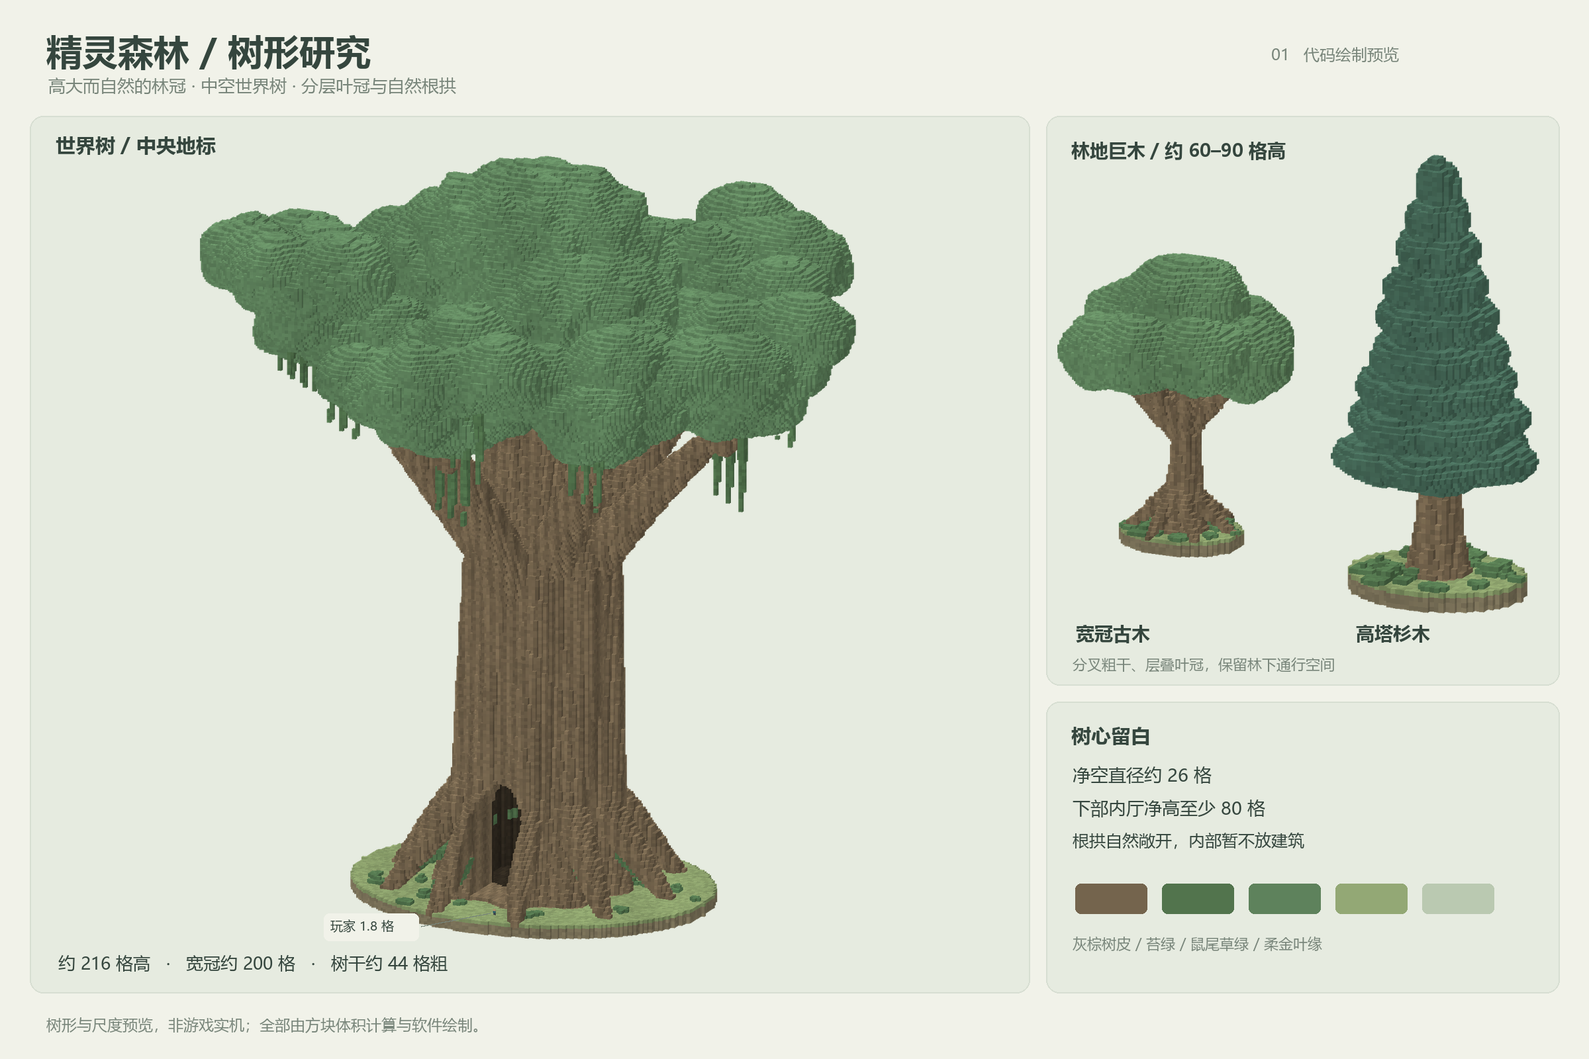
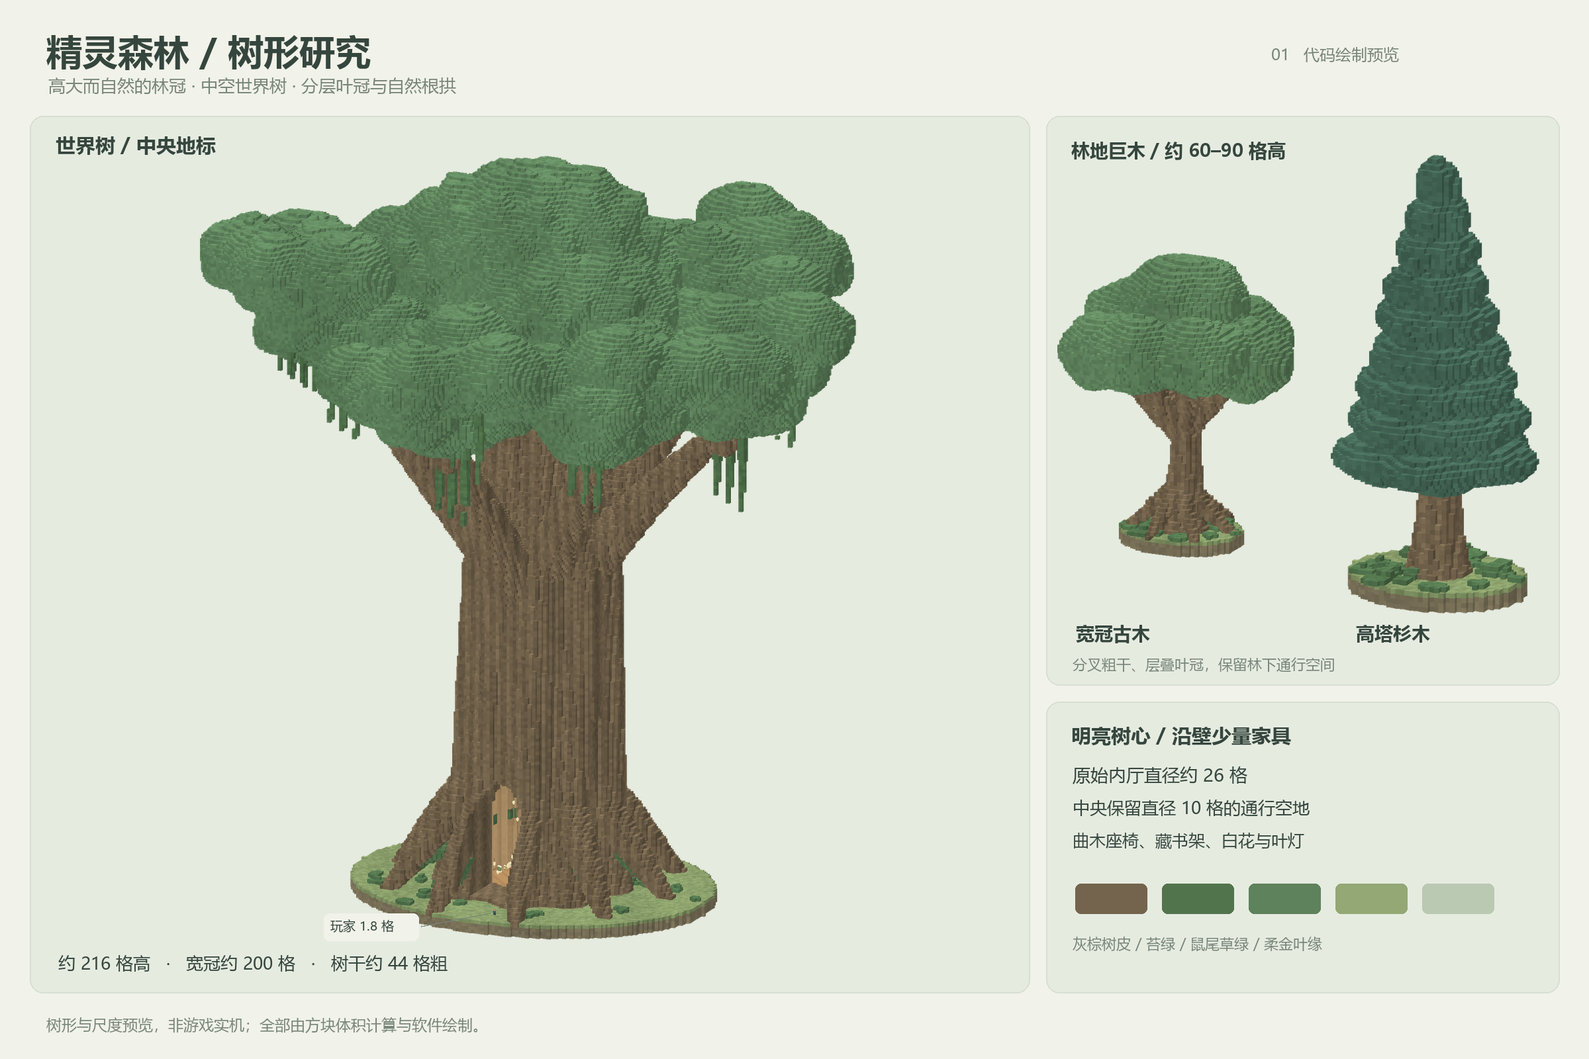
Furnish the world tree study with elven furniture and warm leaf lights

Changed region(s): [[0.6562, 0.6875, 0.8125, 0.8125], [0.3125, 0.75, 0.3438, 0.8438]]

diff --git a/tools/elven_tree_study.py b/tools/elven_tree_study.py
@@ -6,7 +6,8 @@ from pathlib import Path
 import json
 import math
 import numpy as np
-from PIL import Image, ImageDraw, ImageFont
+from PIL import Image, ImageDraw, ImageFont, ImageFilter
+from elven_tree_furnishings import Furnishings, COLORS, QUADS, lighting
 
 ROOT = Path(__file__).resolve().parent.parent
 OUT = ROOT / 'docs/concepts/elven-forest'
@@ -179,6 +180,18 @@ def render(v, size, yaw=25, elevation=17, crop=None):
         mids.append(coords)
         mats.append(data[tuple(indices.T)])
         sides.append(np.full(len(coords), side, dtype=np.uint8))
+    furnishings=getattr(v,'furnishings',None)
+    if furnishings:
+        ceiling=float(np.flatnonzero(occupied.any(axis=(0,2))).max()+v.origin[1])
+        for part in furnishings.parts:
+            if part['points'][:,1].mean()>ceiling+1:continue
+            for quad,normal in zip(QUADS,part['normals']):
+                if normal@eye<=0:continue
+                vertices=part['points'][list(quad)]
+                faces.append(vertices[None,:,:]);mids.append(vertices.mean(axis=0)[None,:])
+                mats.append(np.array([part['material']],dtype=np.uint8))
+                side=1 if abs(normal[1])>.5 else 0 if abs(normal[0])>.5 else 2
+                sides.append(np.array([side],dtype=np.uint8))
     # 玩家按 1.8 格身高绘制，作为世界树和树心的实际尺度参照。
     if v.data.shape[0] > 150:
         px, pz, py = (5., -36., 1.) if crop is None else (0., 2., 2.)
@@ -205,7 +218,8 @@ def render(v, size, yaw=25, elevation=17, crop=None):
     noise = ((integers[:,0]*73856093 ^ integers[:,1]*19349663 ^ integers[:,2]*83492791) % 101)/100-.5
     woodgrain = np.sin(mids[:,0]*1.8+mids[:,2]*.7)*.08 + np.sin(mids[:,1]*.12+mids[:,0]*.5)*.025
     base = np.zeros((len(mats),3), dtype=float)
-    for material, color in {1:(116,100,77),2:(94,130,92),3:(82,116,77),4:(69,104,87),5:(125,116,91),6:(128,147,99),7:(198,165,127),8:(55,111,121),9:(60,66,77)}.items():
+    palette={1:(116,100,77),2:(94,130,92),3:(82,116,77),4:(69,104,87),5:(125,116,91),6:(128,147,99),7:(198,165,127),8:(55,111,121),9:(60,66,77),**COLORS}
+    for material, color in palette.items():
         base[mats==material] = color
     brightness = np.choose(sides, [.78, 1.10, .94])*(1+noise*.15)
     brightness += np.where(mats==1, woodgrain, .035*np.sin(mids[:,0]*.17+mids[:,2]*.11))
@@ -214,12 +228,24 @@ def render(v, size, yaw=25, elevation=17, crop=None):
         adjacent = mids+np.stack([sides==0,sides==1,-(sides==2).astype(int)],axis=1)
         inner_radius = np.where(adjacent[:,1]<82,13,13-(adjacent[:,1]-82)*.22)
         inner = (mats==1)&(adjacent[:,0]**2+adjacent[:,2]**2<inner_radius**2)&(adjacent[:,1]>=2)&(adjacent[:,1]<96)
-        brightness[inner] *= .38+.18*mids[inner,1]/96
+        if furnishings:
+            radiance=lighting(mids+.5,furnishings.lights)
+            base[inner]=(159,131,94)
+            brightness[inner]=.86+.26*radiance[inner]/(1+radiance[inner])+woodgrain[inner]*.8+noise[inner]*.04
+            decorative=mats>=10
+            brightness[decorative]=np.choose(sides[decorative],[.92,1.07,1.0])*(.86+.18*np.minimum(radiance[decorative],1.5))
+        else:brightness[inner] *= .38+.18*mids[inner,1]/96
+    brightness[(mats==17)|(mats==24)]=1
     colors = np.clip(base*brightness[:,None],0,255).astype(np.uint8)
     im = Image.new('RGBA', tuple(target.astype(int)))
     draw = ImageDraw.Draw(im)
+    glow=Image.new('RGBA',im.size) if furnishings else None
+    gd=ImageDraw.Draw(glow) if glow else None
     for i in order:
-        draw.polygon([tuple(p) for p in screen[i]], fill=tuple(colors[i])+(255,))
+        polygon=[tuple(p) for p in screen[i]]
+        draw.polygon(polygon, fill=tuple(colors[i])+(255,))
+        if gd:gd.polygon(polygon,fill=(255,227,156,92) if mats[i] in (17,24) else (0,0,0,0))
+    if glow:im=Image.alpha_composite(im,glow.filter(ImageFilter.GaussianBlur(float(max(2,scale*.22)))))
     result = im.resize(size, Image.Resampling.LANCZOS)
     if v.data.shape[0]>150:
         point=np.array([px,py,pz]);projected=np.array([point@right,-point@up])
@@ -235,6 +261,53 @@ def panel(draw, box):
     draw.rounded_rectangle(box, 20, fill='#e6ebe0', outline='#d7ded2', width=2)
 
 
+def draw_interior(world):
+    """单独放大树心下部，让家具细节和中央亮度清楚可见。"""
+    cut=world.data.copy()
+    xx,yy,zz=np.ogrid[-112:113,-4:230,-112:113]
+    cut[np.broadcast_to((abs(xx)>19)|(zz>19)|(zz<-14)|(yy>27),cut.shape)]=0
+    cut[:,6:,:112]=0
+    board=Image.new('RGB',(2400,1500),'#f4f2e8')
+    d=ImageDraw.Draw(board)
+    text(d,(66,38),'世界树 / 精灵起居厅',52,bold=True)
+    text(d,(70,111),'少量家具沿壁布置 · 中央明亮留空 · 暖白叶灯与自然曲木',25,MUTED)
+    panel(d,(42,175,1715,1395));panel(d,(1745,175,2355,1395))
+    scene=render(world,(1630,1150),yaw=19,elevation=30,crop=cut)
+    board.paste(scene,(60,215),scene)
+    text(d,(1783,210),'中央留空 / 家具靠边',29,bold=True)
+    # 平面示意与三维家具使用同一组中心坐标，不凭画面另画一套布局。
+    cx,cy,scale=2050,510,16.5
+    d.ellipse((cx-13*scale,cy-13*scale,cx+13*scale,cy+13*scale),fill='#b4a27f',outline='#8d8269',width=9)
+    d.ellipse((cx-12.2*scale,cy-12.2*scale,cx+12.2*scale,cy+12.2*scale),fill='#d5c59f')
+    d.ellipse((cx-5*scale,cy-5*scale,cx+5*scale,cy+5*scale),fill='#ebe0b9',outline='#eee8d7',width=3)
+    for obj in world.furnishings.objects:
+        x,_,z=obj['center'];sx,sy=cx+x*scale,cy-z*scale
+        if '长椅' in obj['name']:
+            d.rounded_rectangle((sx-9,sy-29,sx+9,sy+29),5,fill='#7f967c',outline='#ede5cd',width=3)
+        elif '藏书' in obj['name']:
+            d.rounded_rectangle((sx-27,sy-8,sx+27,sy+8),3,fill='#9b7958')
+        elif '阅览' in obj['name']:
+            d.rounded_rectangle((sx-23,sy-13,sx+23,sy+13),4,fill='#e3d4af',outline='#b09d76',width=2)
+        else:d.ellipse((sx-9,sy-9,sx+9,sy+9),fill='#7c9d77',outline='#e7eddd',width=3)
+    for a in np.linspace(0,math.tau,8,endpoint=False)+.16:
+        x,y=cx+math.cos(a)*11.1*scale,cy-math.sin(a)*11.1*scale
+        d.ellipse((x-5,y-5,x+5,y+5),fill='#fff3c4',outline='#c5b280',width=1)
+    text(d,(cx-62,cy-12),'通行空地',24)
+    text(d,(1790,773),'两张曲木叶背长椅',25)
+    text(d,(1790,820),'一组低书架与小阅览桌',25)
+    text(d,(1790,867),'两处白花花架',25)
+    d.line((1790,935,2300,935),fill='#bec8b6',width=2)
+    text(d,(1790,978),'中央主灯 + 环壁叶灯',27,bold=True)
+    text(d,(1790,1030),'暖白照亮中心，保留木色与绿意',22,MUTED)
+    text(d,(1790,1072),'高处另设吊藤叶灯，树心不压暗',22,MUTED)
+    for i,(c,label) in enumerate([('#dacdaa','浅木'),('#7a987b','叶绿'),('#f4e4b2','暖白'),('#b49958','少量柔金')]):
+        x=1790+i*130
+        d.rounded_rectangle((x,1170,x+95,1210),6,fill=c)
+        text(d,(x,1229),label,20,MUTED)
+    text(d,(70,1432),'代码绘制的家具与照明预览，非游戏实机；尚未接入群系生成。',23,MUTED)
+    board.save(OUT/'world-tree-interior.png')
+
+
 def main():
     OUT.mkdir(parents=True, exist_ok=True)
     world = world_tree()
@@ -246,6 +319,9 @@ def main():
     shell=(xx*xx+zz*zz>=13**2)&(xx*xx+zz*zz<=16**2)
     assert not world.data[:,6:86,:][np.broadcast_to(chamber[:,None,:],(225,80,225))].any()
     assert world.data[:,40:86,:][np.broadcast_to(shell[:,None,:],(225,46,225))].all()
+    world.furnishings=Furnishings().arrange(world)
+    metrics['interior']=world.furnishings.validate()
+    metrics['stage']='代码绘制的家具与照明研究，尚未接入游戏'
     print(json.dumps(metrics, ensure_ascii=False), flush=True)
     board = Image.new('RGB',(2400,1600),PAPER)
     d = ImageDraw.Draw(board)
@@ -267,10 +343,10 @@ def main():
     text(d,(1618,207),'林地巨木 / 约 60–90 格高',28,bold=True)
     text(d,(1625,937),'宽冠古木',28,bold=True);text(d,(2048,937),'高塔杉木',28,bold=True)
     text(d,(1620,988),'分叉粗干、层叠叶冠，保留林下通行空间',22,MUTED)
-    text(d,(1618,1090),'树心留白',30,bold=True)
-    text(d,(1620,1152),'净空直径约 26 格',27)
-    text(d,(1620,1202),'下部内厅净高至少 80 格',27)
-    text(d,(1620,1252),'根拱自然敞开，内部暂不放建筑',25)
+    text(d,(1618,1090),'明亮树心 / 沿壁少量家具',30,bold=True)
+    text(d,(1620,1152),'原始内厅直径约 26 格',27)
+    text(d,(1620,1202),'中央保留直径 10 格的通行空地',26)
+    text(d,(1620,1252),'曲木座椅、藏书架、白花与叶灯',25)
     colors=['#74644d','#52744d','#5e825c','#93a875','#bac9b1']
     for i,c in enumerate(colors):d.rounded_rectangle((1624+i*131,1335,1732+i*131,1380),8,fill=c)
     text(d,(1620,1410),'灰棕树皮 / 苔绿 / 鼠尾草绿 / 柔金叶缘',22,MUTED)
@@ -279,12 +355,12 @@ def main():
     # 剖切只移除前半侧树壳，保留后壁，展示实际留空的树心。
     cut = world.data.copy()
     cut[:,114:,:] = 0
-    cut[:,:,:112] = 0
+    cut[:,6:,:112] = 0
     cut[:,98:,:] = 0
     room = Image.new('RGB',(2100,1450),PAPER)
     dr=ImageDraw.Draw(room)
-    text(dr,(65,42),'世界树 / 树心剖面',50,bold=True)
-    text(dr,(68,114),'切去半侧树壳，保留自然后壁与根拱；内部不放房屋、阶梯或装饰。',25,MUTED)
+    text(dr,(65,42),'世界树 / 明亮树心剖面',50,bold=True)
+    text(dr,(68,114),'少量家具沿内壁布置，叶形灯具分层补光；中央保留空地。',25,MUTED)
     img=render(world,(1420,1180),yaw=12,elevation=16,crop=cut)
     room.paste(img,(10,195),img)
     hx,hy=img.info['player_position']+np.array([10,195])
@@ -293,17 +369,18 @@ def main():
     text(dr,(hx+111,hy+12),'玩家 1.8 格',22)
     text(dr,(1470,280),'预留给精灵族的家园',32,bold=True)
     text(dr,(1470,370),'内厅约 26 格宽',29)
-    text(dr,(1470,425),'可用净高至少 80 格',29)
-    text(dr,(1470,510),'厚树壳与外部棱脊',26)
-    text(dr,(1470,560),'低处根拱作为自然入口',26)
-    text(dr,(1470,610),'分枝从外壁向上生长',26)
-    text(dr,(1470,660),'内部空心已做几何校验',26)
+    text(dr,(1470,425),'中央通行空地直径 10 格',29)
+    text(dr,(1470,510),'浅木与鼠尾草绿坐垫',26)
+    text(dr,(1470,560),'叶背长椅、低书架、小阅览桌',26)
+    text(dr,(1470,610),'暖白叶灯与细藤吊灯',26)
+    text(dr,(1470,660),'高处叶灯分层照亮内厅',26)
     dr.line((1500,800,1900,800),fill='#b8c3b3',width=2)
-    text(dr,(1470,850),'先确认树形和尺度',30,bold=True)
-    text(dr,(1470,915),'通过后再制作原版数据包',25,MUTED)
-    text(dr,(1470,958),'群系、树木结构和定位入口',25,MUTED)
+    text(dr,(1470,850),'精灵风格 / 轻巧、自然',30,bold=True)
+    text(dr,(1470,915),'保留根拱与高挑树心',25,MUTED)
+    text(dr,(1470,958),'地面中央留给今后布置',25,MUTED)
     text(dr,(65,1385),'离线体积剖面，非实机截图；尚未向维度添加任何生成规则。',23,MUTED)
     room.save(OUT/'world-tree-cutaway.png')
+    draw_interior(world)
     (OUT/'dimensions.json').write_text(json.dumps(metrics,ensure_ascii=False,indent=2)+'\n',encoding='utf-8')
     print('TREE_STUDY_READY',OUT,flush=True)
 

diff --git a/tools/elven_tree_furnishings.py b/tools/elven_tree_furnishings.py
@@ -1,0 +1,160 @@
+"""树心少量精灵家具、叶形灯具与预览照明的参数化几何。"""
+import math
+import numpy as np
+
+COLORS = {
+    10: (159, 124, 82), 11: (218, 206, 170), 12: (186, 155, 86),
+    13: (119, 148, 119), 14: (141, 92, 87), 15: (95, 131, 142),
+    16: (92, 119, 83), 17: (255, 237, 180), 18: (100, 138, 89),
+    19: (128, 105, 72), 20: (93, 83, 60), 21: (202, 193, 154),
+    22: (145, 113, 77), 23: (236, 229, 202), 24: (243, 225, 168),
+}
+SIGNS = np.array([[0,0,0],[1,0,0],[1,1,0],[0,1,0],[0,0,1],[1,0,1],[1,1,1],[0,1,1]],float)
+QUADS = [(1,2,6,5),(0,4,7,3),(3,7,6,2),(0,1,5,4),(0,3,2,1),(4,5,6,7)]
+NORMALS = np.array([[1,0,0],[-1,0,0],[0,1,0],[0,-1,0],[0,0,-1],[0,0,1]],float)
+
+
+class Furnishings:
+    """几何保留物件类别，方便校验中央通道与地面支撑。"""
+    def __init__(self):
+        self.parts = []
+        self.lights = []
+        self.objects = []
+
+    def box(self, center, size, material, kind, yaw=0):
+        a=math.radians(yaw)
+        rotation=np.array([[math.cos(a),0,math.sin(a)],[0,1,0],[-math.sin(a),0,math.cos(a)]])
+        points=((SIGNS-.5)*size)@rotation.T+center
+        self.parts.append({'points':points,'normals':NORMALS@rotation.T,'material':material,'kind':kind})
+
+    def stem(self, points, width, material, kind):
+        points=np.array(points,float)
+        for start,end in zip(points[:-1],points[1:]):
+            steps=max(2,int(np.linalg.norm(end-start)/max(.12,width*.7)))
+            for t in np.linspace(0,1,steps):
+                self.box(start+(end-start)*t,(width,width,width),material,kind)
+
+    def leaf(self, center, height, width, material, kind, yaw=0):
+        # 分层收尖的叶形轮廓，避免做成普通方框或金属灯笼。
+        for t in np.linspace(.08,.92,9):
+            self.box(np.array(center)+(0,(t-.5)*height,0),(width*math.sin(t*math.pi),height/8,.14),material,kind,yaw)
+
+    def lantern(self, pos, scale=1, power=.48):
+        x,y,z=pos
+        self.leaf((x,y,z),1.9*scale,1.1*scale,11,'灯罩')
+        self.leaf((x,y,z),1.9*scale,1.1*scale,11,'灯罩',90)
+        self.box((x,y,z),(.38*scale,.86*scale,.38*scale),17,'灯芯')
+        self.box((x,y-1.02*scale,z),(.15*scale,.20*scale,.15*scale),12,'灯梢')
+        self.lights.append((np.array(pos,float),power,8.5*scale))
+
+    def bench(self, cx,cz,yaw):
+        a=math.radians(yaw)
+        right=np.array([math.cos(a),0,-math.sin(a)])
+        back=np.array([math.sin(a),0,math.cos(a)])
+        origin=np.array([cx,2,cz],float)
+        def piece(x,y,z,size,material):
+            self.box(origin+right*x+(0,y,0)+back*z,size,material,'座椅',yaw)
+        for x in (-1.45,1.45):
+            for z in (-.36,.36):piece(x,.39,z,(.16,.78,.16),10)
+        piece(0,.84,0,(3.45,.19,1.02),11)
+        piece(0,.99,-.06,(3.03,.16,.73),13)
+        for x in (-1.58,1.58):
+            piece(x,1.20,.04,(.14,.8,.14),10)
+            piece(x,1.58,-.06,(.20,.11,1.02),11)
+        for x in np.linspace(-1.4,1.4,7):
+            p=origin+right*x+back*.43+(0,1.52,0)
+            self.leaf(p,1.15,.43,11,'座椅',yaw)
+        piece(0,1.09,.45,(3.18,.13,.13),12)
+        self.objects.append({'name':'曲木叶背长椅','center':[cx,2,cz]})
+
+    def bookcase(self):
+        cx,cz=-5.6,9.2
+        for y in (2.08,3.00,3.92,4.8):
+            self.box((cx,y,cz),(3.5,.16,.8),11,'书架')
+        for x in (cx-1.66,cx+1.66):self.box((x,3.4,cz),(.17,2.8,.8),10,'书架')
+        rng=np.random.default_rng(401)
+        for row,y in enumerate((2.56,3.48,4.36)):
+            x=cx-1.43
+            while x<cx+1.35:
+                w=float(rng.uniform(.12,.23));h=float(rng.uniform(.42,.69))
+                self.box((x+w/2,y,cz-.10),(w,h,.46),int(rng.choice([13,14,15,16,23])),'书籍')
+                self.box((x+w/2,y-h*.27,cz-.34),(w*.8,.025,.022),12,'书籍')
+                x+=w+.035
+        for dx in (-1.6,1.6):self.leaf((cx+dx,5.0,cz),.8,.4,18,'书架绿饰')
+        self.objects.append({'name':'低矮藏书架','center':[cx,2,cz]})
+
+    def reading(self):
+        cx,cz=5.6,8.4
+        for x in (-1.02,1.02):
+            for z in (-.48,.48):self.box((cx+x,2.53,cz+z),(.14,1.06,.14),10,'阅览桌')
+        self.box((cx,3.13,cz),(2.6,.20,1.45),11,'阅览桌')
+        self.box((cx-.15,3.28,cz-.12),(.8,.09,.56),16,'桌上书籍',-12)
+        self.box((cx-.15,3.34,cz-.13),(.73,.025,.50),23,'桌上书籍',-12)
+        self.lantern((cx+.79,3.65,cz+.10),.34,.16)
+        self.box((cx,2.65,cz-1.5),(.82,.15,.78),13,'阅览椅')
+        for dx in (-.30,.30):
+            for dz in (-.28,.28):self.box((cx+dx,2.28,cz-1.5+dz),(.10,.56,.10),10,'阅览椅')
+        self.leaf((cx,3.3,cz-1.81),1.45,.84,11,'阅览椅')
+        self.objects.append({'name':'小阅览桌椅','center':[cx,2,cz]})
+
+    def planter(self,cx,cz):
+        self.box((cx,2.28,cz),(.95,.56,.95),11,'花架')
+        self.box((cx,2.58,cz),(.78,.06,.78),20,'花架')
+        for i,a in enumerate(np.linspace(0,math.tau,5,endpoint=False)):
+            x,z=cx+math.cos(a)*.40,cz+math.sin(a)*.40
+            self.stem([(cx,2.60,cz),(x,3.1+i*.07,z),(x,3.6+i*.07,z)],.09,18,'花架')
+            self.leaf((x,3.15,z),.72,.39,18,'花架',a*180/math.pi)
+            self.box((x,3.68+i*.07,z),(.17,.20,.17),23,'花朵')
+        self.objects.append({'name':'白花绿叶花架','center':[cx,2,cz]})
+
+    def arrange(self,volume):
+        self.bench(-9.1,3.7,90)
+        self.bench(9.1,3.7,-90)
+        self.bookcase()
+        self.reading()
+        self.planter(-10.2,.1)
+        self.planter(10.2,.1)
+        # 灯具沿内壁布置，中央主灯位于通行高度以上。
+        for a in np.linspace(0,math.tau,8,endpoint=False)+.16:
+            x,z=math.cos(a)*11.1,math.sin(a)*11.1
+            self.stem([(x*1.14,6,z*1.14),(x,6.4,z),(x,5.7,z)],.12,19,'壁灯支架')
+            self.lantern((x,5.1,z),.63,.54)
+        self.stem([(0,22,13.2),(0,19,8),(0,17,2),(0,13,2)],.18,19,'主灯枝架')
+        for a in np.linspace(0,math.tau,5,endpoint=False):
+            x,z=math.cos(a)*1.65,2+math.sin(a)*1.65
+            self.stem([(0,13,2),(x*.6,12.6,2+(z-2)*.6),(x,12,z)],.10,12,'主灯花枝')
+            self.lantern((x,11.55,z),.52,.46)
+        self.lantern((0,11.8,2),.88,.85)
+        for a in (math.pi*.18,math.pi*.82,math.pi*1.5):
+            x,z=math.cos(a)*9.5,math.sin(a)*9.5
+            self.stem([(x,97,z),(x+.3,60,z),(x-.2,32,z),(x,15,z)],.13,19,'高处吊藤')
+            for y in (22,39,56,73,88):self.lantern((x,y,z),.58,.5)
+        # 低对比木地板与四瓣浅色叶纹嵌片，中央不加祭坛或家具。
+        for x in range(-12,13):
+            for z in range(-12,13):
+                if x*x+z*z>=13**2:continue
+                material=10 if (x+z)%5 else 22
+                leaf=((x/4.8)**2+(z/1.55)**2<1 or (x/1.55)**2+(z/4.8)**2<1)
+                if leaf:material=21
+                if abs(x)+abs(z)<=1:material=24
+                volume.data[x-volume.origin[0],1-volume.origin[1],z-volume.origin[2]]=material
+        self.lights.append((np.array([0,1.8,0]),.48,7))
+        return self
+
+    def validate(self):
+        for part in self.parts:
+            p=part['points'];low=p.min(axis=0);high=p.max(axis=0)
+            nearest=np.maximum(np.maximum(low[[0,2]],0),-high[[0,2]])
+            if low[1]<10 and high[1]>2:assert nearest@nearest>=5**2,part['kind']
+            if part['kind'] in {'座椅','书架','书籍','阅览桌','阅览椅','花架'}:
+                assert low[1]>=2-1e-6,part['kind']
+        return {'furniture_objects':self.objects,'light_sources':len(self.lights),'center_clear_diameter':10,'center_walk_height':8}
+
+
+def lighting(points,lights):
+    """仅供设计图的柔和点光照明，不等同于 Minecraft 实际方块光照。"""
+    result=np.zeros(len(points),float)
+    for position,power,radius in lights:
+        distance=((points-position)**2).sum(axis=1)
+        result+=power/(1+distance/(radius*radius))
+    return result

diff --git a/docs/ELVEN_FOREST_STUDY.md b/docs/ELVEN_FOREST_STUDY.md
@@ -1,6 +1,6 @@
 # 精灵森林树形研究
 
-2026-10-21：按“树木要先画图”的要求，先制作树形、尺度与中空树心的离线预览。使用 Python、NumPy 和 Pillow 计算方块体积、提取表面并绘制，不使用图像生成服务。本阶段不注册群系、不改变原有世界生成、不添加建筑，也没有游戏中的定位命令。
+2026-10-21：按“树木要先画图”的要求，先制作树形、尺度与中空树心的离线预览，并按后续要求补充少量精灵家具与明亮的中央照明。使用 Python、NumPy 和 Pillow 计算体积、提取表面并绘制，不使用图像生成服务。本阶段不注册群系、不改变原有世界生成，也没有游戏中的定位命令。
 
 ![世界树与林地巨木](concepts/elven-forest/tree-study.png)
 
@@ -10,7 +10,17 @@
 
 ![中空树心剖面](concepts/elven-forest/world-tree-cutaway.png)
 
-树心圆形净空直径约 26 格，竖向连续净空至少 80 格，低处有自然根拱入口。脚本逐格验证圆形内厅为空，并验证入口上方外围至少三格的环形树壳连续存在；未来精灵住所的房屋、楼层与楼梯均不在本次预览中。图上小人按 1.8 格身高绘制。
+裸树体的树心圆形净空直径约 26 格，竖向连续净空至少 80 格，低处有自然根拱入口。脚本先逐格验证裸树体内厅为空，并验证入口上方外围至少三格的环形树壳连续存在；再单独校验家具与灯具不侵占中央直径 10 格、高 8 格的通行空间。图上小人按 1.8 格身高绘制。未来精灵住所的房屋、楼层与楼梯仍未添加。
+
+## 精灵家具与明亮树心
+
+![少量家具与暖白叶灯](concepts/elven-forest/world-tree-interior.png)
+
+两张曲木叶背长椅沿左右内壁布置，配浅木框和鼠尾草绿坐垫；后侧是一组低书架与一张小阅览桌，入口两侧各有一处白花花架。家具使用薄木构件、收尖叶纹与少量柔金边，保持轻巧，不塞满中央。桌椅与花架从地板表面起立；书架底板和立柱接地。
+
+中央主灯悬在通行高度以上，花枝上垂下暖白叶形灯罩；环壁叶灯补充下部照明，细藤吊灯沿树心高度分层布置。地面为低对比木板与浅色四瓣叶纹嵌片，没有祭坛或其他中央障碍物。当前预览布置 31 个光源位置，包含主灯各灯芯、壁灯、桌灯、高处吊灯与地面嵌片。
+
+软件渲染器按这些位置计算柔和点光照明与有限的灯芯光晕，中央保持明亮，树壳仍保留木纹和空间阴影。这是设计照明，不是 Minecraft 实际方块光照测试，也没有新增运行时实体或动态光源。
 
 展示底面仅用来呈现根系与玩家比例，不是世界生成中的土台。当前体积含约 91 万个非空气格，只用于离线形态研究，不能据此声称游戏性能已通过。后续实现继续使用原版数据包、标准结构 NBT 与模板池，需进一步减少不可见体积、分块放置并验证生成开销，不添加 Java 运行时种树器。
 
@@ -28,4 +38,4 @@
 python tools/elven_tree_study.py
 ```
 
-需要 NumPy、Pillow 与 Windows 微软雅黑字体。输出两张 PNG 和 `dimensions.json`；结果为离线绘制，不是游戏实机截图。运行源码和发布包版本仍为 0.9.3。
+需要 NumPy、Pillow 与 Windows 微软雅黑字体。输出树形、整体剖面、家具近景三张 PNG 和 `dimensions.json`；家具几何位于 `tools/elven_tree_furnishings.py`。结果为离线绘制，不是游戏实机截图。运行源码和发布包版本仍为 0.9.3。
